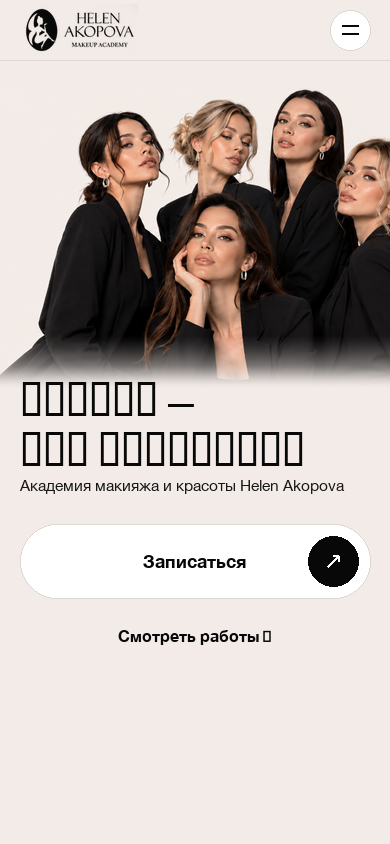
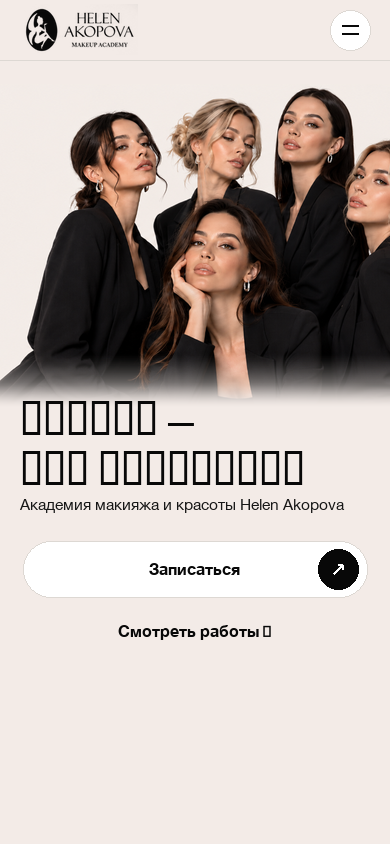
style(mobile): refine primary button to 56px and enlarge photo to 1.25x scale

diff --git a/style.css b/style.css
@@ -1167,7 +1167,7 @@ img {
     padding-bottom: clamp(40px, 7vh, 60px);
   }
 
-  /* 1. ФОТОГРАФИЯ СВЕРХУ (Order: 1, добавлен воздух сверху от шапки) */
+  /* 1. ФОТОГРАФИЯ СВЕРХУ (Увеличена, добавлен воздух сверху от шапки) */
   .hero-right-visual {
     position: relative;
     right: auto;
@@ -1180,7 +1180,7 @@ img {
     min-height: auto;
     height: auto;
     order: 1; /* ФОТО ПЕРВОЕ */
-    margin-top: calc(var(--header-height) + 28px); /* ДОБАВЛЕН ВОЗДУХ СВЕРХУ */
+    margin-top: calc(var(--header-height) + 24px); /* ДОБАВЛЕН ВОЗДУХ СВЕРХУ */
     margin-bottom: 0;
     padding: 0;
     overflow: visible;
@@ -1211,18 +1211,18 @@ img {
     position: relative;
     display: block;
     width: 100%;
-    max-width: 530px;
+    max-width: 580px;
     height: auto;
   }
 
   .hero-group-photo {
     width: 100%;
-    max-width: 530px;
+    max-width: 580px;
     height: auto;
     object-fit: contain;
     object-position: center top;
     display: block;
-    transform: scale(1.16);
+    transform: scale(1.24); /* ФОТОГРАФИЯ СТАЛА БОЛЬШЕ */
     transform-origin: center top;
     -webkit-mask-image: linear-gradient(to bottom, #000 74%, rgba(0, 0, 0, 0.85) 86%, transparent 100%);
     mask-image: linear-gradient(to bottom, #000 74%, rgba(0, 0, 0, 0.85) 86%, transparent 100%);
@@ -1277,7 +1277,7 @@ img {
     letter-spacing: -0.01em;
   }
 
-  /* 3. КНОПКИ ПО СЕРЕДИНЕ (Широкая капсула 74px + ссылка с отступом 28px) */
+  /* 3. КНОПКИ ПО СЕРЕДИНЕ (Аккуратная элегантная капсула высотой 56px + ссылка) */
   .hero-cta-group {
     display: flex;
     flex-direction: column;
@@ -1290,22 +1290,22 @@ img {
 
   .hero-primary-btn {
     width: 100%;
-    max-width: 440px;
-    height: 74px; /* Высота в диапазоне 72-80 px */
-    border-radius: 50px; /* Скругление 50 px */
+    max-width: 350px; /* Аккуратная, не громоздкая капсула */
+    height: 56px; /* Не слишком высокая и не большая */
+    border-radius: 28px; /* Изящная капсула */
     position: relative;
     display: flex;
     align-items: center;
     justify-content: center;
-    padding: 0 68px; /* Защита текста от соприкосновения со стрелкой */
-    margin: 0 auto 28px; /* Отступ 28px до ссылки «Смотреть работы →» (диапазон 25-30 px) */
-    font-size: 17.5px;
+    padding: 0 54px; /* Защита текста от соприкосновения со стрелкой */
+    margin: 0 auto 24px; /* 24px до ссылки «Смотреть работы →» */
+    font-size: 16px;
     font-weight: 500;
     font-family: var(--font-sans);
     color: var(--color-black-deep);
     background: #FFFFFF;
     border: 1px solid var(--color-border);
-    box-shadow: 0 4px 18px rgba(8, 8, 8, 0.05);
+    box-shadow: 0 4px 16px rgba(8, 8, 8, 0.05);
     box-sizing: border-box;
   }
 
@@ -1317,11 +1317,11 @@ img {
 
   .hero-primary-btn .btn-arrow-circle {
     position: absolute;
-    right: 12px;
+    right: 8px;
     top: 50%;
     transform: translateY(-50%);
-    width: 50px;
-    height: 50px;
+    width: 40px;
+    height: 40px;
     border-radius: 50%;
     background: var(--color-black-deep);
     display: flex;
@@ -1332,9 +1332,9 @@ img {
   }
 
   .hero-primary-btn .btn-arrow-circle svg {
-    width: 14px;
-    height: 14px;
-    stroke-width: 2px;
+    width: 12px;
+    height: 12px;
+    stroke-width: 1.8px;
   }
 
   .hero-secondary-btn {
@@ -1343,7 +1343,7 @@ img {
     justify-content: center;
     text-align: center;
     width: auto;
-    font-size: 15.5px;
+    font-size: 15px;
     font-weight: 500;
     color: var(--color-black-deep);
     opacity: 0.85;
@@ -1376,7 +1376,16 @@ img {
   }
 
   .hero-right-visual {
-    margin-top: calc(var(--header-height) + 24px); /* Добавлен воздух сверху */
+    margin-top: calc(var(--header-height) + 20px); /* Добавлен воздух сверху */
+  }
+
+  .hero-picture,
+  .hero-group-photo {
+    max-width: 100%;
+  }
+
+  .hero-group-photo {
+    transform: scale(1.25); /* ФОТОГРАФИЯ СТАЛА БОЛЬШЕ */
   }
 
   .hero-left-content {
@@ -1404,22 +1413,22 @@ img {
   }
 
   .hero-primary-btn {
-    max-width: 100%;
-    height: 74px; /* Высота 74px */
-    border-radius: 50px; /* Скругление 50 px */
-    font-size: 17px;
-    padding: 0 64px;
-    margin-bottom: 26px; /* 26px до ссылки «Смотреть работы →» */
+    max-width: 340px;
+    height: 56px; /* Не слишком высокая и не большая */
+    border-radius: 28px;
+    font-size: 16px;
+    padding: 0 52px;
+    margin-bottom: 22px;
   }
 
   .hero-primary-btn .btn-arrow-circle {
-    width: 48px;
-    height: 48px;
-    right: 12px;
+    width: 40px;
+    height: 40px;
+    right: 8px;
   }
 
   .hero-secondary-btn {
-    font-size: 15px;
+    font-size: 14.5px;
     padding: 4px 8px;
   }
 }

diff --git a/generate_renders.py b/generate_renders.py
@@ -218,10 +218,10 @@ def render_mobile_exact(output_filename):
     draw.line([(ham_x + 12, ham_y + 15), (ham_x + 28, ham_y + 15)], fill=COLOR_BLACK, width=2)
     draw.line([(ham_x + 12, ham_y + 23), (ham_x + 28, ham_y + 23)], fill=COLOR_BLACK, width=2)
 
-    # 1. Group Photo (With added air on top, scaled generously to 1.16x)
-    photo_y = header_h + 26
+    # 1. Group Photo (Scaled larger to 1.24x per user request)
+    photo_y = header_h + 24
     grp_m = Image.open("assets/group-girls-mobile.png").convert("RGBA")
-    pw = int(W * 1.16)
+    pw = int(W * 1.24)
     ph = int(grp_m.height * (pw / grp_m.width))
     grp_scaled = grp_m.resize((pw, ph), Image.Resampling.LANCZOS)
     paste_x = (W - pw) // 2
@@ -254,31 +254,32 @@ def render_mobile_exact(output_filename):
     draw.text((20, y), "Академия макияжа и красоты Helen Akopova", font=f_sub_m, fill=COLOR_SUBTITLE)
     sub_bottom = y + 20
 
-    # 3. Mobile Button Group: Tight vertical gap from subtitle (28px) and luxury 74px capsule height
-    btn_y = sub_bottom + 28
-    btn_w = W - 40
-    btn_h = 74 # Height in 72-80px range
-    draw_rounded_rect(draw, [20, btn_y, 20 + btn_w, btn_y + btn_h], radius=37, fill=COLOR_WHITE, outline=COLOR_BORDER, width=1)
+    # 3. Mobile Button Group: Refined sleek button (not too tall, not too big: 56px height, 344px width)
+    btn_y = sub_bottom + 26
+    btn_w = 344
+    btn_x = (W - btn_w) // 2
+    btn_h = 56 # Refined luxury capsule height
+    draw_rounded_rect(draw, [btn_x, btn_y, btn_x + btn_w, btn_y + btn_h], radius=28, fill=COLOR_WHITE, outline=COLOR_BORDER, width=1)
     
     try:
-        f_btn_m = ImageFont.truetype(SANS_MED, 17.5, index=1)
+        f_btn_m = ImageFont.truetype(SANS_MED, 16, index=1)
     except:
-        f_btn_m = ImageFont.truetype(SANS_BOLD, 17)
+        f_btn_m = ImageFont.truetype(SANS_BOLD, 16)
         
     txt_cta = "Записаться"
     bbox_cta = draw.textbbox((0, 0), txt_cta, font=f_btn_m)
     tw_cta = bbox_cta[2] - bbox_cta[0]
-    draw.text((20 + (btn_w - tw_cta) // 2, btn_y + 26), txt_cta, font=f_btn_m, fill=COLOR_BLACK)
+    draw.text((btn_x + (btn_w - tw_cta) // 2, btn_y + 18), txt_cta, font=f_btn_m, fill=COLOR_BLACK)
     
     # Circular black badge with white arrow inside primary button
-    cir_r = 25
-    cir_cx = 20 + btn_w - 12 - cir_r
+    cir_r = 20
+    cir_cx = btn_x + btn_w - 9 - cir_r
     cir_cy = btn_y + (btn_h // 2)
     draw.ellipse([cir_cx - cir_r, cir_cy - cir_r, cir_cx + cir_r, cir_cy + cir_r], fill=COLOR_BLACK)
-    draw_arrow_ne(draw, cir_cx, cir_cy, size=6, color=COLOR_WHITE, width=2)
+    draw_arrow_ne(draw, cir_cx, cir_cy, size=5, color=COLOR_WHITE, width=2)
 
-    # 4. Secondary action link centered below button with 28px gap
-    sec_y = btn_y + btn_h + 28
+    # 4. Secondary action link centered below button with 24px gap
+    sec_y = btn_y + btn_h + 24
     try:
         f_sec_m = ImageFont.truetype(SANS_MED, 15.5, index=1)
     except:
